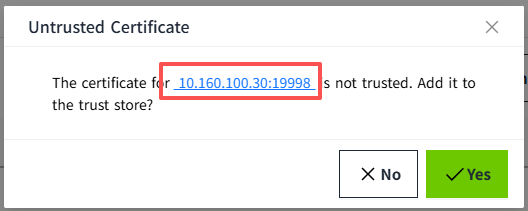
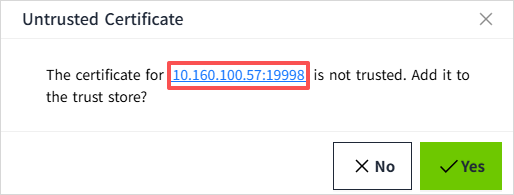
1

Changed region(s): [[0.0, 0.0, 1.0, 1.0], [0.0934, 0.2769, 0.9339, 0.5231]]

diff --git a/docs/management-platform/devices/iec104/tls.md b/docs/management-platform/devices/iec104/tls.md
@@ -11,9 +11,9 @@ Use TLS for IEC104 devices in the following scenarios:
 - You need to reduce the risk of eavesdropping and man-in-the-middle attacks on control and telemetry traffic.
 - The project uses remote access, multi-site deployment, or third-party network infrastructure where link security cannot be guaranteed.
 
-## Enable TLS for an IEC104 Device
+## Enable TLS for an IEC 104 Device
 
-1. Open **Devices** -> **IEC104** and click **Add** (or **Edit** an existing device).
+1. Open **Devices** -> **IEC 104** and click **Add** (or **Edit** an existing device).
 2. Check **Enable TLS**.
 3. Configure server endpoints and ports.
 4. Save and enable the device.
@@ -39,38 +39,71 @@ When **Enable TLS** is checked, VC Hub uses TLS-oriented default behavior:
 
 ## Certificate Validation and Warning Prompt
 
-When you enable/disable a TLS-enabled IEC104 device, VC Hub validates the certificate of the active endpoint before allowing the device to run:
+When working with TLS-enabled IEC 104 devices, VC Hub checks the security certificate of the connected endpoint before allowing the device to start.
 
-- If the certificate is **not manually trusted**, the device is **not allowed to enabled**.
-- If the certificate is **expired**, the device is also **not allowed to enabled**.
-- In both cases, a warning indicator is shown.
-- Clicking the warning opens the certificate/trust dialog.
-- In that dialog, you can click the endpoint **IP address** to view certificate details.
+If there is a problem with the certificate, VC Hub will display a warning and prevent the device from being enabled.
+
+### When Does a Warning Appear?
+
+A warning icon appears if:
+
+- The certificate is not trusted
+- The certificate is expired
+
+In both cases, the device cannot be started until the issue is resolved.
+
+### Warning Icon
+
+A warning icon is displayed next to the affected device.
 
 ![alt text](16.png)
+
+To view details:
+
+- Click the warning icon
+- The "Untrusted Certificate" dialog opens
+
 ![alt text](17.png)
+
+### Viewing Certificate Details
+
+Inside the dialog:
+
+- Locate the endpoint IP address
+- Click the IP address
+- A detailed view of the certificate is displayed
+
 ![alt text](19.png)
 
-## Dialog Behavior: Yes / No
+### What You Can Do
 
-### Yes
+**Option 1: Click Yes**
 
-- If certificate state is **not trusted**:
-    - VC Hub adds the endpoint certificate to trust store.
-    - Re-check certificate for current device.
-    - The device can then be enabled.
-- If certificate state is **expired**:
-    - VC Hub does **not** add the certificate.
-    - An expired-certificate message is shown.
-    - The device remains not allowed to enabled.
-  
-![alt text](18.png)
+![](20.png)
 
-### No
+If the certificate is not trusted:
 
-- The dialog is closed.
-- For a **not trusted** certificate, the device remains disabled (not started).
-- For an **expired** certificate, the device also remains disabled (not started).
+- The certificate will be added to the trust store
+- VC Hub will check the certificate again
+- If valid, the device can be enabled
+
+If the certificate is expired:
+
+- The certificate will not be accepted
+- A message will inform you that the certificate is expired
+- The device will remain disabled
+
+**Option 2: Click No**
+
+![](21.png)
+
+- The dialog will close
+- No changes are made
+
+The device will remain disabled in both cases:
+
+- Untrusted certificate
+- Expired certificate
 
 ## Notes
 

diff --git a/docs/management-platform/devices/iec104/index.md b/docs/management-platform/devices/iec104/index.md
@@ -77,18 +77,18 @@ Bind I/O tags to data points from your IEC104 device.
 
 1. Create an I/O tag in the editor.
 
-   ![alt text](3.png)
+    ![alt text](3.png)
 
 2. Open the tag edit page and click the data source binding button.
 
-   ![alt text](4.png)
+    ![alt text](4.png)
 
-3. In the Data Source dialog, select the target IEC104 device and fill in:
+3. In the Data Source dialog, select the target IEC 104 device and fill in:
     - Common Address
     - ASDU Type
     - Information Object Address
   
-   ![alt text](5.png)
+    ![alt text](5.png)
    
 4. Click **OK** to finish binding.
 
@@ -96,10 +96,10 @@ Bind I/O tags to data points from your IEC104 device.
 
 | **Name** | **Description** |
 | --- | --- |
-| Device Name | IEC104 device selected from the device tree. |
+| Device Name | IEC 104 device selected from the device tree. |
 | Common Address | Common address used by this tag binding (positive integer). |
-| ASDU Type | IEC104 ASDU Type ID; options are filtered by the tag data type. |
-| Information Object Address | IEC104 IOA for the target point (positive integer). |
+| ASDU Type | IEC 104 ASDU Type ID; options are filtered by the tag data type. |
+| Information Object Address | IEC 104 IOA for the target point (positive integer). |
 
 **Type ID selection by tag data type**
 